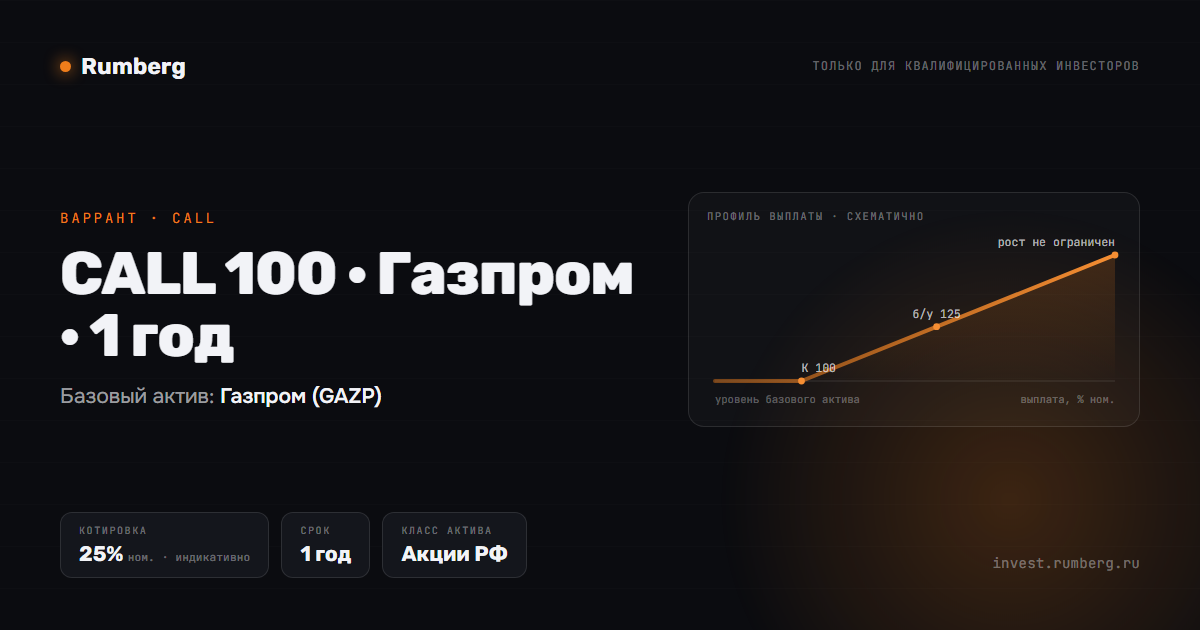
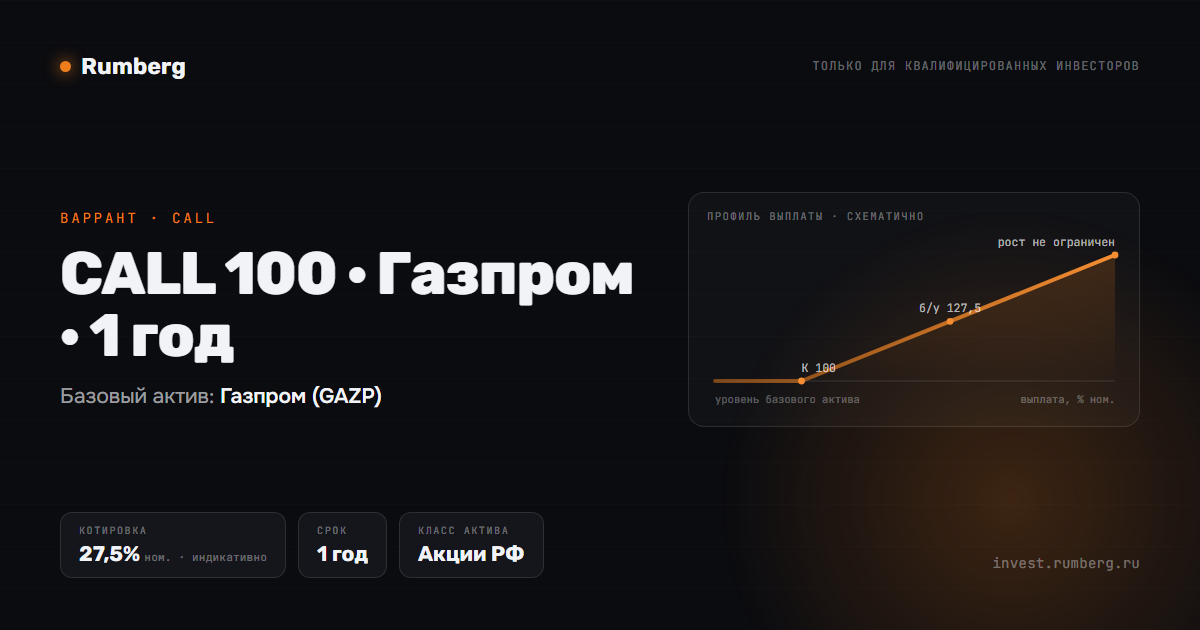
Доска: пересчёт 9 рублёвых варрантов на прайсере
Сбербанк, Лукойл, Полюс (1 и 2 года), Газпром и ДОМ.РФ (1 год), CNYRUB.
Цена прайсера / 0,8 с округлением вверх до 0,25, экспирация сдвинута
на сегодня (id не меняются). У CNYRUB обновлён уровень базового актива.
Перегенерированы превью p/ и og-картинки этих продуктов.

Changed region(s): [[0.0617, 0.8143, 0.4625, 0.9048], [0.74, 0.4825, 0.8325, 0.5127]]

diff --git a/data/instruments.js b/data/instruments.js
@@ -1272,8 +1272,8 @@ window.SITE_DATA = {
       "strike": 100,
       "spot": 100,
       "tenor": "1 год",
-      "expiry": "13.08.2027",
-      "quote": 18.75,
+      "expiry": "05.10.2027",
+      "quote": 19.25,
       "chg": 0,
       "minNom": 1000000,
       "src": "sales"
@@ -1289,8 +1289,8 @@ window.SITE_DATA = {
       "strike": 100,
       "spot": 100,
       "tenor": "1 год",
-      "expiry": "13.08.2027",
-      "quote": 18.75,
+      "expiry": "05.10.2027",
+      "quote": 19,
       "chg": 0,
       "minNom": 1000000,
       "src": "sales"
@@ -1306,8 +1306,8 @@ window.SITE_DATA = {
       "strike": 100,
       "spot": 100,
       "tenor": "1 год",
-      "expiry": "13.08.2027",
-      "quote": 26.25,
+      "expiry": "05.10.2027",
+      "quote": 26,
       "chg": 0,
       "minNom": 1000000,
       "src": "sales"
@@ -1323,8 +1323,8 @@ window.SITE_DATA = {
       "strike": 100,
       "spot": 100,
       "tenor": "2 года",
-      "expiry": "13.08.2028",
-      "quote": 25.75,
+      "expiry": "04.10.2028",
+      "quote": 29.75,
       "chg": 0,
       "minNom": 1000000,
       "src": "sales"
@@ -1340,8 +1340,8 @@ window.SITE_DATA = {
       "strike": 100,
       "spot": 100,
       "tenor": "2 года",
-      "expiry": "13.08.2028",
-      "quote": 27.5,
+      "expiry": "04.10.2028",
+      "quote": 28.25,
       "chg": 0,
       "minNom": 1000000,
       "src": "sales"
@@ -1357,8 +1357,8 @@ window.SITE_DATA = {
       "strike": 100,
       "spot": 100,
       "tenor": "2 года",
-      "expiry": "13.08.2028",
-      "quote": 42.5,
+      "expiry": "04.10.2028",
+      "quote": 41.25,
       "chg": 0,
       "minNom": 1000000,
       "src": "sales"
@@ -1843,12 +1843,12 @@ window.SITE_DATA = {
       "name": "Call",
       "underlying": "CNYRUB",
       "cls": "Валюта",
-      "uRef": "11,59",
+      "uRef": "12,65",
       "tenor": "1 год",
-      "expiry": "03.08.27",
+      "expiry": "05.10.2027",
       "spot": 100,
       "strike": 100,
-      "quote": 15.75,
+      "quote": 14.25,
       "chg": 0,
       "minNom": 2000000,
       "src": "sales"
@@ -1916,7 +1916,7 @@ window.SITE_DATA = {
       "strike": 100,
       "spot": 100,
       "tenor": "1 год",
-      "quote": 25,
+      "quote": 27.5,
       "chg": 0,
       "minNom": 1000000,
       "src": "sales"
@@ -1932,7 +1932,7 @@ window.SITE_DATA = {
       "strike": 100,
       "spot": 100,
       "tenor": "1 год",
-      "quote": 25,
+      "quote": 21.25,
       "chg": 0,
       "minNom": 1000000,
       "src": "sales"

diff --git a/p/W-SBER-C100-0828.html b/p/W-SBER-C100-0828.html
@@ -4,12 +4,12 @@
 <meta charset="utf-8">
 <meta name="viewport" content="width=device-width, initial-scale=1">
 <title>CALL 100 · Сбербанк · 2 года — Rumberg</title>
-<meta name="description" content="Варрант на Сбербанк (SBER) · котировка 25,75% от номинала · Rumberg — структурные продукты для квалифицированных инвесторов">
+<meta name="description" content="Варрант на Сбербанк (SBER) · котировка 29,75% от номинала · Rumberg — структурные продукты для квалифицированных инвесторов">
 <meta property="og:type" content="website">
 <meta property="og:site_name" content="Rumberg">
 <meta property="og:locale" content="ru_RU">
 <meta property="og:title" content="CALL 100 · Сбербанк · 2 года">
-<meta property="og:description" content="Варрант на Сбербанк (SBER) · котировка 25,75% от номинала · Rumberg — структурные продукты для квалифицированных инвесторов">
+<meta property="og:description" content="Варрант на Сбербанк (SBER) · котировка 29,75% от номинала · Rumberg — структурные продукты для квалифицированных инвесторов">
 <meta property="og:url" content="https://invest.rumberg.ru/p/W-SBER-C100-0828.html">
 <meta property="og:image" content="https://invest.rumberg.ru/og/W-SBER-C100-0828.png">
 <meta property="og:image:width" content="1200">

diff --git a/p/W-SBER-C100-0827.html b/p/W-SBER-C100-0827.html
@@ -4,12 +4,12 @@
 <meta charset="utf-8">
 <meta name="viewport" content="width=device-width, initial-scale=1">
 <title>CALL 100 · Сбербанк · 1 год — Rumberg</title>
-<meta name="description" content="Варрант на Сбербанк (SBER) · котировка 18,75% от номинала · Rumberg — структурные продукты для квалифицированных инвесторов">
+<meta name="description" content="Варрант на Сбербанк (SBER) · котировка 19,25% от номинала · Rumberg — структурные продукты для квалифицированных инвесторов">
 <meta property="og:type" content="website">
 <meta property="og:site_name" content="Rumberg">
 <meta property="og:locale" content="ru_RU">
 <meta property="og:title" content="CALL 100 · Сбербанк · 1 год">
-<meta property="og:description" content="Варрант на Сбербанк (SBER) · котировка 18,75% от номинала · Rumberg — структурные продукты для квалифицированных инвесторов">
+<meta property="og:description" content="Варрант на Сбербанк (SBER) · котировка 19,25% от номинала · Rumberg — структурные продукты для квалифицированных инвесторов">
 <meta property="og:url" content="https://invest.rumberg.ru/p/W-SBER-C100-0827.html">
 <meta property="og:image" content="https://invest.rumberg.ru/og/W-SBER-C100-0827.png">
 <meta property="og:image:width" content="1200">

diff --git a/p/W-LKOH-C100-0828.html b/p/W-LKOH-C100-0828.html
@@ -4,12 +4,12 @@
 <meta charset="utf-8">
 <meta name="viewport" content="width=device-width, initial-scale=1">
 <title>CALL 100 · Лукойл · 2 года — Rumberg</title>
-<meta name="description" content="Варрант на Лукойл (LKOH) · котировка 27,5% от номинала · Rumberg — структурные продукты для квалифицированных инвесторов">
+<meta name="description" content="Варрант на Лукойл (LKOH) · котировка 28,25% от номинала · Rumberg — структурные продукты для квалифицированных инвесторов">
 <meta property="og:type" content="website">
 <meta property="og:site_name" content="Rumberg">
 <meta property="og:locale" content="ru_RU">
 <meta property="og:title" content="CALL 100 · Лукойл · 2 года">
-<meta property="og:description" content="Варрант на Лукойл (LKOH) · котировка 27,5% от номинала · Rumberg — структурные продукты для квалифицированных инвесторов">
+<meta property="og:description" content="Варрант на Лукойл (LKOH) · котировка 28,25% от номинала · Rumberg — структурные продукты для квалифицированных инвесторов">
 <meta property="og:url" content="https://invest.rumberg.ru/p/W-LKOH-C100-0828.html">
 <meta property="og:image" content="https://invest.rumberg.ru/og/W-LKOH-C100-0828.png">
 <meta property="og:image:width" content="1200">

diff --git a/p/W-GAZP-C100-1Y.html b/p/W-GAZP-C100-1Y.html
@@ -4,12 +4,12 @@
 <meta charset="utf-8">
 <meta name="viewport" content="width=device-width, initial-scale=1">
 <title>CALL 100 · Газпром · 1 год — Rumberg</title>
-<meta name="description" content="Варрант на Газпром (GAZP) · котировка 25% от номинала · Rumberg — структурные продукты для квалифицированных инвесторов">
+<meta name="description" content="Варрант на Газпром (GAZP) · котировка 27,5% от номинала · Rumberg — структурные продукты для квалифицированных инвесторов">
 <meta property="og:type" content="website">
 <meta property="og:site_name" content="Rumberg">
 <meta property="og:locale" content="ru_RU">
 <meta property="og:title" content="CALL 100 · Газпром · 1 год">
-<meta property="og:description" content="Варрант на Газпром (GAZP) · котировка 25% от номинала · Rumberg — структурные продукты для квалифицированных инвесторов">
+<meta property="og:description" content="Варрант на Газпром (GAZP) · котировка 27,5% от номинала · Rumberg — структурные продукты для квалифицированных инвесторов">
 <meta property="og:url" content="https://invest.rumberg.ru/p/W-GAZP-C100-1Y.html">
 <meta property="og:image" content="https://invest.rumberg.ru/og/W-GAZP-C100-1Y.png">
 <meta property="og:image:width" content="1200">

diff --git a/p/W-LKOH-C100-0827.html b/p/W-LKOH-C100-0827.html
@@ -4,12 +4,12 @@
 <meta charset="utf-8">
 <meta name="viewport" content="width=device-width, initial-scale=1">
 <title>CALL 100 · Лукойл · 1 год — Rumberg</title>
-<meta name="description" content="Варрант на Лукойл (LKOH) · котировка 18,75% от номинала · Rumberg — структурные продукты для квалифицированных инвесторов">
+<meta name="description" content="Варрант на Лукойл (LKOH) · котировка 19% от номинала · Rumberg — структурные продукты для квалифицированных инвесторов">
 <meta property="og:type" content="website">
 <meta property="og:site_name" content="Rumberg">
 <meta property="og:locale" content="ru_RU">
 <meta property="og:title" content="CALL 100 · Лукойл · 1 год">
-<meta property="og:description" content="Варрант на Лукойл (LKOH) · котировка 18,75% от номинала · Rumberg — структурные продукты для квалифицированных инвесторов">
+<meta property="og:description" content="Варрант на Лукойл (LKOH) · котировка 19% от номинала · Rumberg — структурные продукты для квалифицированных инвесторов">
 <meta property="og:url" content="https://invest.rumberg.ru/p/W-LKOH-C100-0827.html">
 <meta property="og:image" content="https://invest.rumberg.ru/og/W-LKOH-C100-0827.png">
 <meta property="og:image:width" content="1200">

diff --git a/p/W-DOMRF-C100-1Y.html b/p/W-DOMRF-C100-1Y.html
@@ -4,12 +4,12 @@
 <meta charset="utf-8">
 <meta name="viewport" content="width=device-width, initial-scale=1">
 <title>CALL 100 · ДОМ.РФ · 1 год — Rumberg</title>
-<meta name="description" content="Варрант на ДОМ.РФ (DOMRF) · котировка 25% от номинала · Rumberg — структурные продукты для квалифицированных инвесторов">
+<meta name="description" content="Варрант на ДОМ.РФ (DOMRF) · котировка 21,25% от номинала · Rumberg — структурные продукты для квалифицированных инвесторов">
 <meta property="og:type" content="website">
 <meta property="og:site_name" content="Rumberg">
 <meta property="og:locale" content="ru_RU">
 <meta property="og:title" content="CALL 100 · ДОМ.РФ · 1 год">
-<meta property="og:description" content="Варрант на ДОМ.РФ (DOMRF) · котировка 25% от номинала · Rumberg — структурные продукты для квалифицированных инвесторов">
+<meta property="og:description" content="Варрант на ДОМ.РФ (DOMRF) · котировка 21,25% от номинала · Rumberg — структурные продукты для квалифицированных инвесторов">
 <meta property="og:url" content="https://invest.rumberg.ru/p/W-DOMRF-C100-1Y.html">
 <meta property="og:image" content="https://invest.rumberg.ru/og/W-DOMRF-C100-1Y.png">
 <meta property="og:image:width" content="1200">

diff --git a/p/W-PLZL-C100-0828.html b/p/W-PLZL-C100-0828.html
@@ -4,12 +4,12 @@
 <meta charset="utf-8">
 <meta name="viewport" content="width=device-width, initial-scale=1">
 <title>CALL 100 · Полюс · 2 года — Rumberg</title>
-<meta name="description" content="Варрант на Полюс (PLZL) · котировка 42,5% от номинала · Rumberg — структурные продукты для квалифицированных инвесторов">
+<meta name="description" content="Варрант на Полюс (PLZL) · котировка 41,25% от номинала · Rumberg — структурные продукты для квалифицированных инвесторов">
 <meta property="og:type" content="website">
 <meta property="og:site_name" content="Rumberg">
 <meta property="og:locale" content="ru_RU">
 <meta property="og:title" content="CALL 100 · Полюс · 2 года">
-<meta property="og:description" content="Варрант на Полюс (PLZL) · котировка 42,5% от номинала · Rumberg — структурные продукты для квалифицированных инвесторов">
+<meta property="og:description" content="Варрант на Полюс (PLZL) · котировка 41,25% от номинала · Rumberg — структурные продукты для квалифицированных инвесторов">
 <meta property="og:url" content="https://invest.rumberg.ru/p/W-PLZL-C100-0828.html">
 <meta property="og:image" content="https://invest.rumberg.ru/og/W-PLZL-C100-0828.png">
 <meta property="og:image:width" content="1200">

diff --git a/p/W-PLZL-C100-0827.html b/p/W-PLZL-C100-0827.html
@@ -4,12 +4,12 @@
 <meta charset="utf-8">
 <meta name="viewport" content="width=device-width, initial-scale=1">
 <title>CALL 100 · Полюс · 1 год — Rumberg</title>
-<meta name="description" content="Варрант на Полюс (PLZL) · котировка 26,25% от номинала · Rumberg — структурные продукты для квалифицированных инвесторов">
+<meta name="description" content="Варрант на Полюс (PLZL) · котировка 26% от номинала · Rumberg — структурные продукты для квалифицированных инвесторов">
 <meta property="og:type" content="website">
 <meta property="og:site_name" content="Rumberg">
 <meta property="og:locale" content="ru_RU">
 <meta property="og:title" content="CALL 100 · Полюс · 1 год">
-<meta property="og:description" content="Варрант на Полюс (PLZL) · котировка 26,25% от номинала · Rumberg — структурные продукты для квалифицированных инвесторов">
+<meta property="og:description" content="Варрант на Полюс (PLZL) · котировка 26% от номинала · Rumberg — структурные продукты для квалифицированных инвесторов">
 <meta property="og:url" content="https://invest.rumberg.ru/p/W-PLZL-C100-0827.html">
 <meta property="og:image" content="https://invest.rumberg.ru/og/W-PLZL-C100-0827.png">
 <meta property="og:image:width" content="1200">

diff --git a/p/w-cnyrub-030827-s.html b/p/w-cnyrub-030827-s.html
@@ -4,12 +4,12 @@
 <meta charset="utf-8">
 <meta name="viewport" content="width=device-width, initial-scale=1">
 <title>Call — Rumberg</title>
-<meta name="description" content="Варрант на CNYRUB · котировка 15,75% от номинала · Rumberg — структурные продукты для квалифицированных инвесторов">
+<meta name="description" content="Варрант на CNYRUB · котировка 14,25% от номинала · Rumberg — структурные продукты для квалифицированных инвесторов">
 <meta property="og:type" content="website">
 <meta property="og:site_name" content="Rumberg">
 <meta property="og:locale" content="ru_RU">
 <meta property="og:title" content="Call">
-<meta property="og:description" content="Варрант на CNYRUB · котировка 15,75% от номинала · Rumberg — структурные продукты для квалифицированных инвесторов">
+<meta property="og:description" content="Варрант на CNYRUB · котировка 14,25% от номинала · Rumberg — структурные продукты для квалифицированных инвесторов">
 <meta property="og:url" content="https://invest.rumberg.ru/p/w-cnyrub-030827-s.html">
 <meta property="og:image" content="https://invest.rumberg.ru/og/w-cnyrub-030827-s.png">
 <meta property="og:image:width" content="1200">
